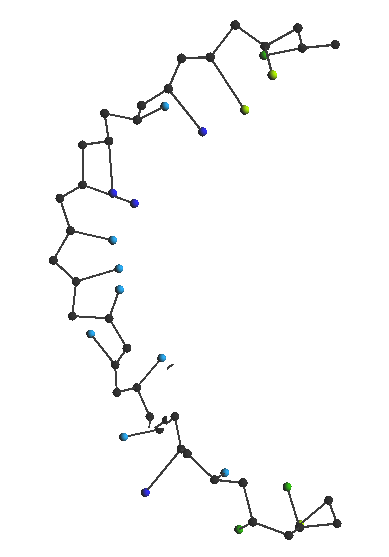
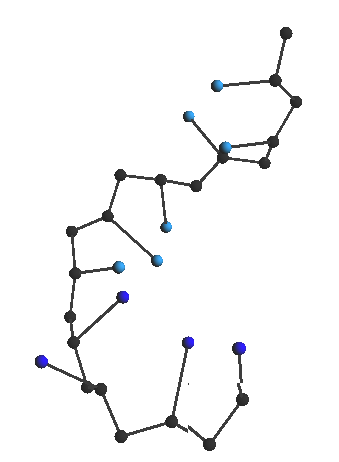
report: images of hairpinformation added, consistent with simulations

diff --git a/report/hairpinScaling.tex b/report/hairpinScaling.tex
@@ -54,7 +54,7 @@ Note that the data shows large deviation from the fit for small $N$. This is to 
 \begin{center}
 \includegraphics[width=4cm]{images/results_hairpin1}\includegraphics[width=5cm]{images/results_hairpin2}\includegraphics[width=5cm]{images/results_hairpin3}
 \end{center}
-\caption{Stages of hairpin formation of a single strand with a stemlength of 7 base pairs and a loopsize of 4 monomers (5'-GCCTATTTTTTAATAGGC-3'). This hairpin was formed after $\sim$ 50ns simulation time at 290K and salt concentration 100 mM.}
+\caption{Example of hairpin formation of a single strand with a stemlength of 4 base pairs and a loopsize of 2 monomers (5'-AAAATTTTTT-3'). This hairpin was formed after $\sim$ 20ns simulation time at 290K and salt concentration 100 mM.}
 \label{results_hairpin}
 \end{figure}
 
